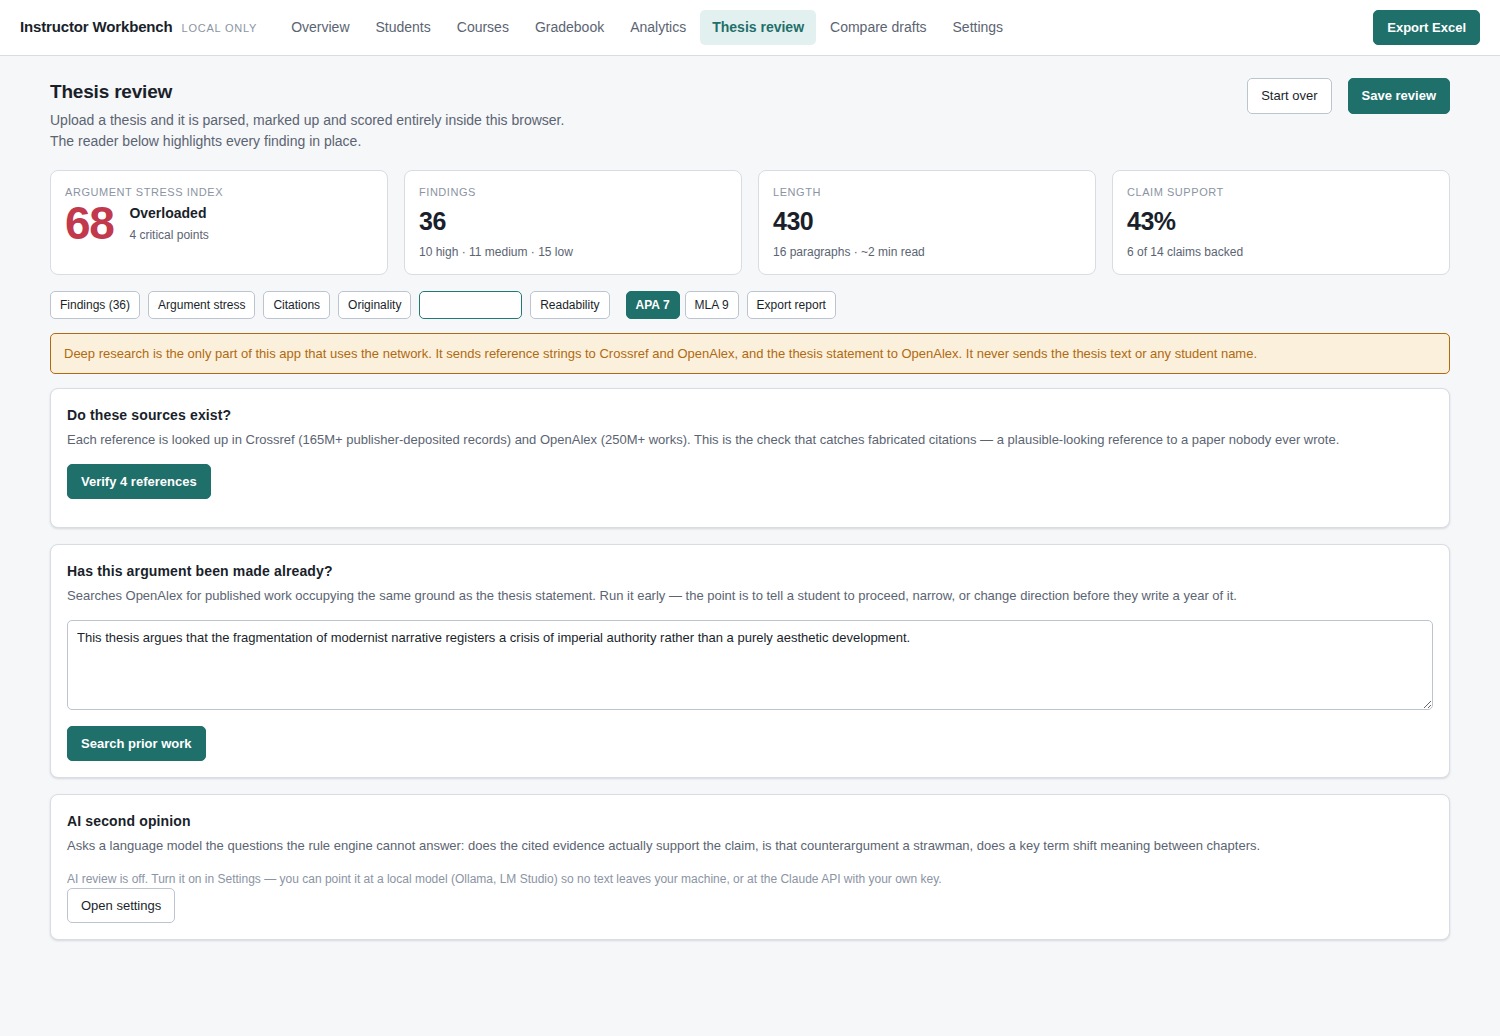
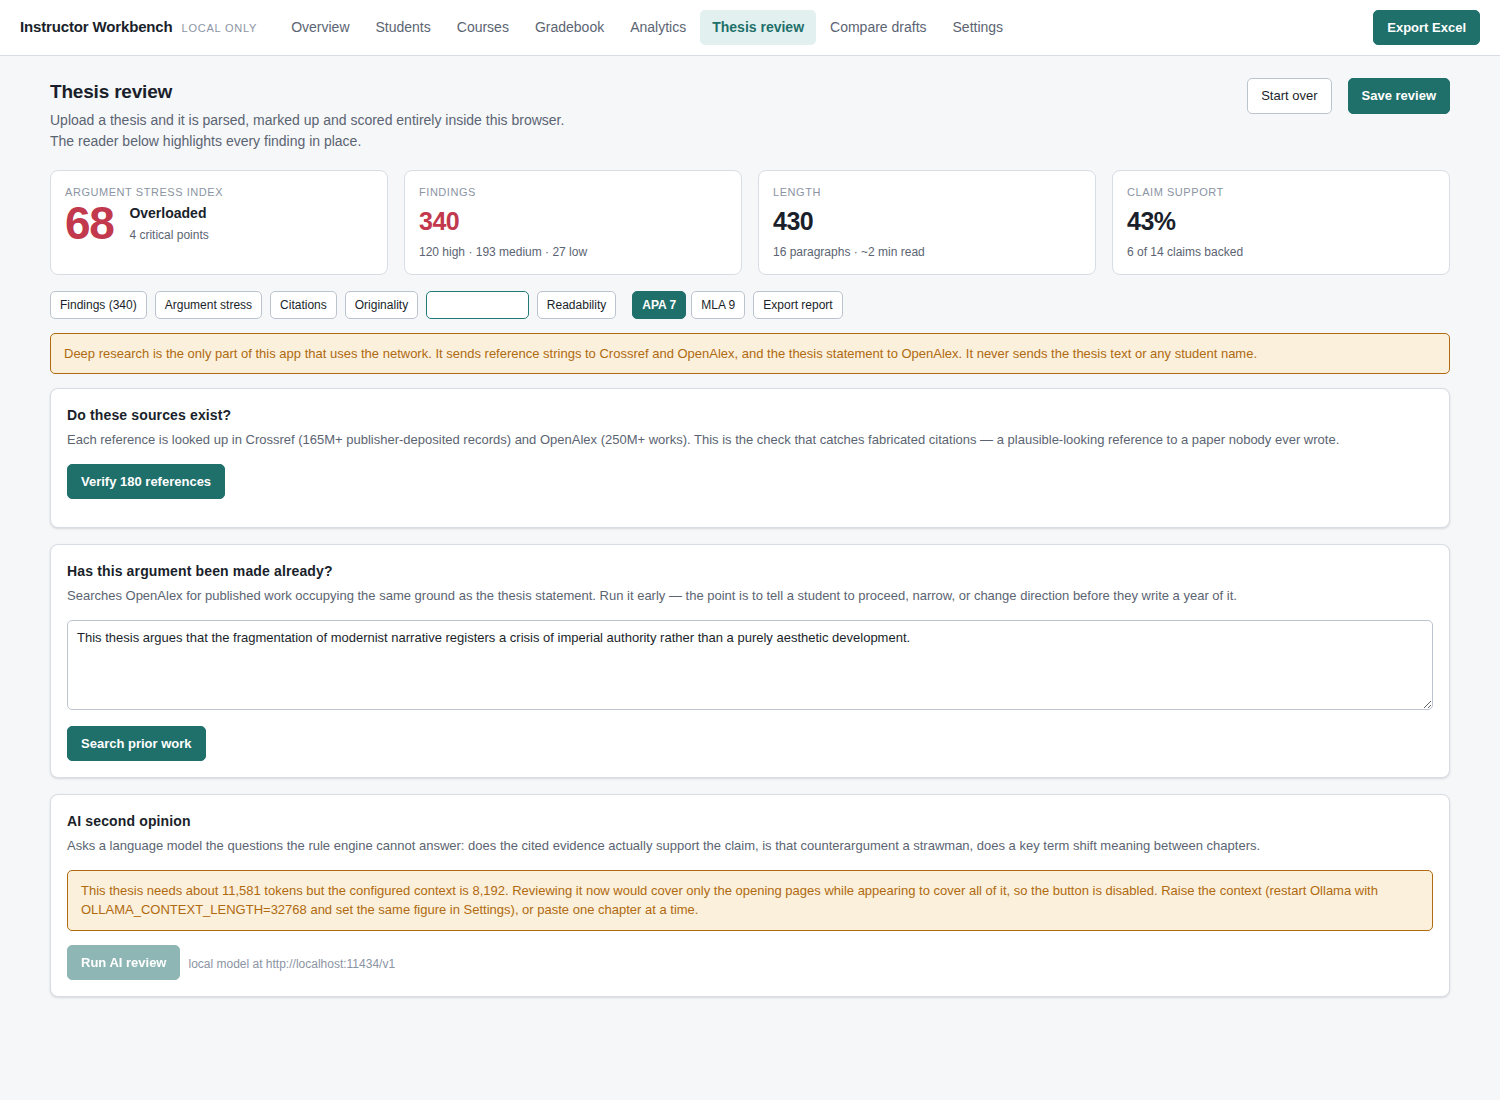
Guard against silent context truncation; add setup scripts and fixtures
The context guard is the substantive fix. Ollama's default context is a few
thousand tokens and it does not error on overflow — it drops it. Sending a
full thesis to a default-configured local model would review the opening
pages while the interface reported a review of the whole document: a
confidently wrong result, which is worse than a failure.

- planReview() estimates the prompt against the configured context and
  reviewThesis() refuses rather than truncating
- The thesis view shows the arithmetic before the button, and disables it
  when the text does not fit, naming the fix
- Settings gains a context-window field for local models

Also:
- start.sh / start.ps1 serve the app and print the exact Ollama invocation,
  including the two environment variables that are easy to miss
- samples/ carries four fixtures — a faulty chapter, its revision, a second
  student sharing a paragraph with it, and a deliberately AI-flavoured text
- README gains a step-by-step setup and a table of what each fixture should
  produce, so the tool can be checked against known-good output

Verified: the fixtures produce stress 68 / 39 / 10 / 100, AI indicators of
12 and 13 for the human-written samples against 68 for the synthetic one,
19% cross-document overlap on the shared paragraph, and the guard disables
the review button with the expected message on an over-long text.

Claude-Session: https://claude.ai/code/session_019SeAANDxviPXzQ4FvS58r7

diff --git a/instructor/js/views/thesis.js b/instructor/js/views/thesis.js
@@ -6,7 +6,7 @@ import { getState, LEVEL_LABEL, saveThesis, loadThesisDocument, removeThesis } f
 import { analyseThesis, buildSegments, dominantIssue, CATEGORY_META } from '../analysis/index.js';
 import { compareAgainstCorpus, voiceConsistency, aiIndicators } from '../analysis/similarity.js';
 import { verifyReference, findPriorWork, setContactEmail } from '../analysis/verify.js';
-import { reviewThesis, toIssues, isConfigured } from '../analysis/ai.js';
+import { reviewThesis, toIssues, isConfigured, planReview } from '../analysis/ai.js';
 import { extractText, SUPPORTED, downloadText } from '../io/files.js';
 
 /* View-local state: an analysed thesis survives store updates. */
@@ -549,13 +549,19 @@ function researchPanel(root, ctx) {
       el('h2', { text: 'AI second opinion' }),
       el('p', { text: 'Asks a language model the questions the rule engine cannot answer: does the cited evidence actually support the claim, is that counterargument a strawman, does a key term shift meaning between chapters.' }),
       isConfigured(s.settings)
-        ? el('div', {},
-            el('div', { class: 'row' },
-              el('button', { class: 'primary', disabled: Boolean(S.busy), text: 'Run AI review', onClick: () => runAiReview(root, ctx) }),
-              el('span', { class: 'hint', text: s.settings.ai.provider === 'local' ? `local model at ${s.settings.ai.endpoint}` : `sends the thesis text to ${s.settings.ai.model}` })
-            ),
-            ex.aiReview ? aiReviewResult(ex.aiReview) : null
-          )
+        ? (() => {
+            const plan = planReview(S.text, s.settings);
+            return el('div', {},
+              plan.fits
+                ? el('p', { class: 'hint', text: `${plan.words.toLocaleString()} words ≈ ${plan.promptTokens.toLocaleString()} tokens, against a ${plan.budget.toLocaleString()}-token context. Fits, with ${plan.headroom.toLocaleString()} to spare.` })
+                : banner('warn', `This thesis needs about ${plan.promptTokens.toLocaleString()} tokens but the configured context is ${plan.budget.toLocaleString()}. Reviewing it now would cover only the opening pages while appearing to cover all of it, so the button is disabled. Raise the context (restart Ollama with OLLAMA_CONTEXT_LENGTH=32768 and set the same figure in Settings), or paste one chapter at a time.`),
+              el('div', { class: 'row' },
+                el('button', { class: 'primary', disabled: Boolean(S.busy) || !plan.fits, text: 'Run AI review', onClick: () => runAiReview(root, ctx) }),
+                el('span', { class: 'hint', text: s.settings.ai.provider === 'local' ? `local model at ${s.settings.ai.endpoint}` : `sends the thesis text to ${s.settings.ai.model}` })
+              ),
+              ex.aiReview ? aiReviewResult(ex.aiReview) : null
+            );
+          })()
         : el('div', {},
             el('p', { class: 'hint', text: 'AI review is off. Turn it on in Settings — you can point it at a local model (Ollama, LM Studio) so no text leaves your machine, or at the Claude API with your own key.' }),
             el('button', { text: 'Open settings', onClick: () => ctx.go('settings') })

diff --git a/instructor/js/analysis/ai.js b/instructor/js/analysis/ai.js
@@ -27,6 +27,46 @@ export const DEFAULT_MODEL = 'claude-opus-5';
    pathological inputs (an OCR dump of scanned images, say). */
 const MAX_CHARS = 400000;
 
+/*
+ * Context budgets, in tokens.
+ *
+ * This matters far more for local models than it looks. Ollama's default
+ * context is a few thousand tokens, and it does not error when you exceed it —
+ * it silently drops the overflow. Send a 60-page thesis and the model reviews
+ * the first three pages while the interface reports a review of the whole
+ * thing, which is the worst possible failure: confident and wrong.
+ *
+ * So the budget is checked before the request, and an over-long text is
+ * refused with instructions rather than quietly truncated.
+ */
+const DEFAULT_CONTEXT = { anthropic: 900000, local: 8192 };
+const RESERVED_FOR_OUTPUT = 3000;
+
+/* English academic prose runs about 3.6 characters per token. Deliberately
+   conservative: under-estimating the count is what causes silent truncation. */
+export const estimateTokens = (text) => Math.ceil(String(text || '').length / 3.6);
+
+/**
+ * Decide whether this text can be reviewed in one request.
+ * Returns the numbers so the interface can show them before anything is sent.
+ */
+export function planReview(text, settings) {
+  const ai = settings.ai || {};
+  const provider = ai.provider === 'local' ? 'local' : 'anthropic';
+  const budget = Number(ai.contextTokens) || DEFAULT_CONTEXT[provider];
+  const promptTokens = estimateTokens(text) + estimateTokens(SYSTEM_PROMPT) + 200;
+  const usable = budget - RESERVED_FOR_OUTPUT;
+  return {
+    provider,
+    budget,
+    usable,
+    promptTokens,
+    words: (String(text || '').match(/[\p{L}\p{N}]+/gu) || []).length,
+    fits: promptTokens <= usable,
+    headroom: usable - promptTokens
+  };
+}
+
 const SYSTEM_PROMPT = `You are assisting a university instructor who is marking a student thesis.
 
 A deterministic rule engine has ALREADY reported: spelling, punctuation, subject-verb agreement, comma splices, passive voice, wordiness, missing citations, unsupported claims, booster/hedge counts, and paragraph cohesion. Do NOT repeat that class of finding.
@@ -162,6 +202,17 @@ export function isConfigured(settings) {
 export async function reviewThesis(text, settings, { signal } = {}) {
   const ai = settings.ai || {};
   if (!isConfigured(settings)) throw new Error('AI review is not configured. Enable it in Settings first.');
+
+  const plan = planReview(text, settings);
+  if (!plan.fits) {
+    throw new Error(
+      `This text needs about ${plan.promptTokens.toLocaleString()} tokens but the configured context is ${plan.budget.toLocaleString()}. ` +
+      'Sending it anyway would review only the opening pages while reporting a review of the whole document, so the request is refused. ' +
+      (plan.provider === 'local'
+        ? 'Either raise the context (restart Ollama with OLLAMA_CONTEXT_LENGTH=32768, and set the same number in Settings), or review one chapter at a time.'
+        : 'Review one chapter at a time.')
+    );
+  }
 
   const body = String(text || '').slice(0, MAX_CHARS);
   const truncated = String(text || '').length > MAX_CHARS;

diff --git a/instructor/js/views/settings.js b/instructor/js/views/settings.js
@@ -77,7 +77,10 @@ export default function renderSettings(root, ctx) {
                   banner('privacy', 'With a local model, the thesis text goes to a server you run — Ollama, LM Studio, llama.cpp or vLLM — and no further. This keeps the privacy guarantee intact.'),
                   field('Endpoint', el('input', { value: ai.endpoint || '', placeholder: 'http://localhost:11434/v1', onChange: (e) => setAi({ endpoint: e.target.value }) }),
                     'The OpenAI-compatible base URL. Ollama: http://localhost:11434/v1 — LM Studio: http://localhost:1234/v1'),
-                  field('API key (usually blank for local servers)', el('input', { type: 'password', value: ai.apiKey || '', onChange: (e) => setAi({ apiKey: e.target.value }) }))
+                  field('API key (usually blank for local servers)', el('input', { type: 'password', value: ai.apiKey || '', onChange: (e) => setAi({ apiKey: e.target.value }) })),
+                  field('Context window (tokens)',
+                    el('input', { type: 'number', min: '2048', step: '1024', value: ai.contextTokens || 8192, onChange: (e) => setAi({ contextTokens: Number(e.target.value) }) }),
+                    'Must match what the server is actually running. Ollama defaults to a few thousand tokens and silently drops anything beyond it — a whole thesis would be reviewed from its first pages only. Start Ollama with OLLAMA_CONTEXT_LENGTH=32768 and put 32768 here.')
                 )
               : el('div', {},
                   banner('warn', 'With the Claude API, the full thesis text is transmitted to Anthropic for the review. Do not use this for material a student has not agreed to share, or where your institution’s data policy forbids it.'),

diff --git a/instructor/README.md b/instructor/README.md
@@ -4,16 +4,67 @@ A grading and thesis-review tool for a university instructor teaching across
 three levels. It runs entirely in a browser from a folder of static files.
 There is no server, no account, and no build step.
 
-Open `instructor/index.html` through any static web server and it works.
+## Getting it running
+
+**1. Start the app.**
 
 ```bash
 cd instructor
-python3 -m http.server 8099
-# then open http://localhost:8099
+./start.sh            # macOS / Linux   (or: .\start.ps1 on Windows)
 ```
 
-A plain `file://` open will not work: the app is written as ES modules, which
-browsers refuse to load from the filesystem. Any static server will do.
+Then open <http://localhost:8099>. That is the whole install — everything
+except AI review works now, with no network and no model.
+
+A plain `file://` open will *not* work: the app is written as ES modules, which
+browsers refuse to load from the filesystem. Any static server will do;
+`start.sh` just runs Python's.
+
+**2. Try it on the fixtures** in `samples/`, which are built to exercise each
+feature. Five minutes, in this order:
+
+| Do this | You should see |
+|---|---|
+| Thesis review → paste `samples/thesis-v1.txt` → Analyse | Stress **68, Overloaded**. 36 findings highlighted in the text. |
+| Argument stress tab | Six over-stressed claims; 6 of 14 claims backed. |
+| Citations tab, toggle **APA 7 → MLA 9** | Findings change as the style changes. |
+| Assign it to a student, **Save review**. Then analyse `samples/other-student.txt` and save that too. | Two saved reviews. |
+| Re-analyse `thesis-v1.txt` → Originality → **Run comparison** | **19% overlap** with the other student, and the shared paragraph quoted. |
+| Originality → AI indicators | **12/100.** Now try `samples/ai-flavoured.txt`: **68/100.** That gap is the whole signal — and note how thin it is. |
+| Compare drafts → `thesis-v1.txt` and `thesis-v2.txt` | 1 paragraph edited with a word-level diff, 1 cut, 2 added, 16 untouched. |
+| Gradebook, then **Export Excel** | A `.xlsx` with a sheet per course plus statistics. |
+
+**3. Add a local model** (only needed for AI review — everything above already
+works without it).
+
+```bash
+# once
+brew install ollama          # or: curl -fsSL https://ollama.com/install.sh | sh
+ollama pull qwen2.5:14b      # ~9 GB. llama3.1:8b is ~5 GB and weaker.
+
+# every time, in a second terminal
+OLLAMA_ORIGINS=http://localhost:8099 OLLAMA_CONTEXT_LENGTH=32768 ollama serve
+```
+
+Then in the app: **Settings → AI review → enable → Local → Ollama →** model
+`qwen2.5:14b`, context `32768` → **Test connection**. It should report which
+URL answered and list your installed models.
+
+Those two environment variables are not optional:
+
+- **`OLLAMA_ORIGINS`** lets this page talk to Ollama at all. Without it the
+  browser blocks the request before it is sent and reports only
+  "Failed to fetch".
+- **`OLLAMA_CONTEXT_LENGTH`** is the one that quietly ruins results. Ollama's
+  default context is a few thousand tokens and it does **not** error when you
+  exceed it — it drops the overflow. A 60-page thesis would be reviewed from
+  its first three pages while the interface reported a review of the whole
+  document. The app refuses to send anything that does not fit and shows the
+  arithmetic, but it can only do that if the number in Settings matches the
+  number Ollama is actually running.
+
+Roughly: 32k tokens ≈ 90 pages. For a longer thesis, raise both figures or run
+the review a chapter at a time.
 
 ---
 

diff --git a/instructor/samples/README.md b/instructor/samples/README.md
@@ -1,0 +1,12 @@
+# Test fixtures
+
+Files to try the workbench on before you use real student work.
+
+| File | What it is for |
+|---|---|
+| `thesis-v1.txt` | A short chapter with deliberate faults: over-stressed claims, a circular paragraph, agreement errors, a comma splice, a fragment, a topic jump, and a reference that is never cited. Expect an Overloaded stress score. |
+| `thesis-v2.txt` | A revision of `v1`. One paragraph rewritten, one deleted, a conclusion added. Use both in **Compare drafts**. |
+| `other-student.txt` | A different student's chapter that shares one paragraph verbatim with `thesis-v1.txt`. Save both under **Thesis review**, then run **Originality → Run comparison** to see the shared passage found. |
+| `ai-flavoured.txt` | Written to trip every AI-writing indicator. Compare its score with `thesis-v1.txt`, which is human-written and scores low. This is the fastest way to see how noisy the signal is, and why it is labelled an indicator rather than a verdict. |
+
+None of these are real student work.
